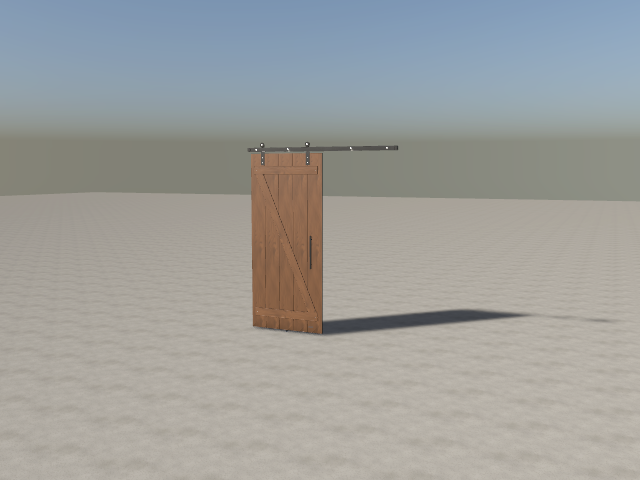
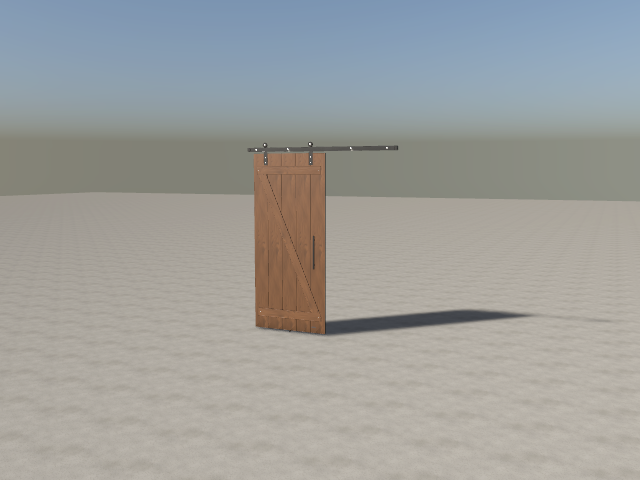
fix(floorplan): barn-door rail recentered for contract

Changed region(s): [[0.4688, 0.2812, 0.5312, 0.6875], [0.375, 0.3438, 0.4375, 0.6875], [0.4062, 0.2812, 0.4375, 0.3438]]

diff --git a/Sources/RealLibrary/Structures/Interior/BarnDoor.swift b/Sources/RealLibrary/Structures/Interior/BarnDoor.swift
@@ -4,7 +4,7 @@ import Foundation
 /// Sliding barn door, 1.9 m x 2.3 m x 0.1 m overall: five vertical walnut planks (950 x 2150 x 32 mm, 1.5 mm joints) braced by a
 /// Z of top, bottom and diagonal battens, two black steel strap hangers with wheels riding a flat top rail (1.9 m, 50 x 8 mm) on four
 /// standoff posts with end stops, a vertical bar pull and a floor guide. Origin at the bottom center of the opening; the slab hangs
-/// 20 mm above the floor and slides toward +X along the rail (rail spans x -0.5...1.4).
+/// 20 mm above the floor and slides toward +X along the rail (rail spans x -0.54...1.36).
 public struct BarnDoor: RealArticulated {
     public static let id = "barn-door"
     public static let summary = "Sliding barn door: five-plank walnut slab with Z-brace battens, black strap hangers on a flat top rail with standoffs, floor guide and pull."
@@ -21,7 +21,7 @@ public struct BarnDoor: RealArticulated {
     public var steel: MaterialKey = "metal.powdercoat:202225"
     public var bolt: MaterialKey = "metal.steel"
     /// Slide travel along +X (m).
-    public var travel: Float = 0.9
+    public var travel: Float = 0.88
     public init() {}
 
     public func rig(seed: UInt64) -> Rig {
@@ -33,7 +33,7 @@ public struct BarnDoor: RealArticulated {
         let bz1: Float = 0.026                                 // batten front
         let railZ0: Float = 0.030, railZ1: Float = 0.038
         let railTop: Float = 2.24, railH: Float = 0.05
-        let rx0: Float = -0.5, rx1 = rx0 + railLength
+        let rx0: Float = -0.54, rx1 = rx0 + railLength
         let wallZ: Float = -0.038
         let wheelR: Float = 0.03
 
